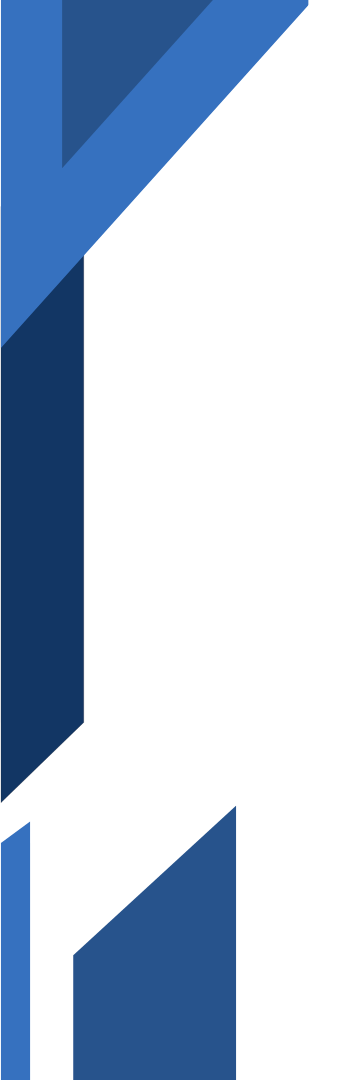
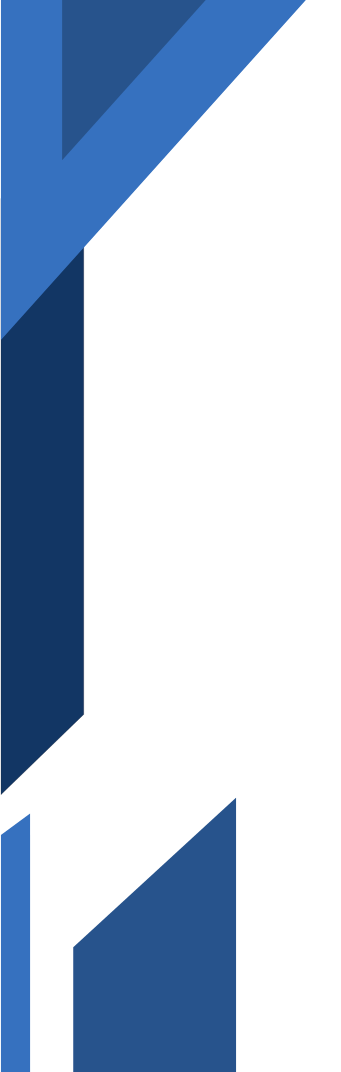
third container

diff --git a/src/components/ThirdContainer/ThirdContainer.css b/src/components/ThirdContainer/ThirdContainer.css
@@ -1,14 +1,42 @@
 .third-container {
+  position: relative;
   background-color: #EDEDED;
   padding: 20px;
   display: flex;
   flex-direction: column;
   align-items: center;
   margin-bottom: 20px;
+  overflow: hidden;
 }
 
 .third-container h1 {
   color: #27538C;
   font-family: 'Roboto Condensed', sans-serif;
   font-size: 30px;
+}
+
+.header1Image {
+  position: absolute;
+  left: 0;
+  right: 0;
+  bottom: 0;
+  top: 0;
+  width: 60%;
+  background: url('../../assets/header1.png') no-repeat left top;
+  background-size: contain;
+}
+
+.header5Image {
+  position: absolute;
+  right: 0;
+  bottom: 0;
+  width: 50%;
+  height: 100%;
+  background: url('../../assets/header5.png') no-repeat right bottom;
+  background-size: contain;
+}
+
+.third-container > *:not(.header1Image):not(.header5Image) {
+  position: relative;
+  z-index: 0;
 }

diff --git a/src/components/Header/Header.css b/src/components/Header/Header.css
@@ -22,6 +22,8 @@
   color: #27538C;
   font-family: 'Roboto Condensed', sans-serif;
   font-size: 52px;
+  margin-left: 170px;
+  height: 20px;
 }
 
 .header3Image {
@@ -30,8 +32,19 @@
   right: 0;
   top: 0;
   bottom: 0;
-  height: 100%;
   background: url('../../assets/header3.png') no-repeat right top;
+  background-size: contain;
+  z-index: 1;
+}
+
+.header4Image {
+  position: absolute;
+  left: 0;
+  right: 0;
+  bottom: 0;
+  top: 0;
+  width: 60%;
+  background: url('../../assets/header4.png') no-repeat left top;
   background-size: contain;
   z-index: 1;
 }

diff --git a/src/components/ThirdContainer/ThirdContainer.tsx b/src/components/ThirdContainer/ThirdContainer.tsx
@@ -5,6 +5,8 @@ import TestingMenu from './testingMenu/TestingMenu';
 const ThirdContainer = () => {
   return (
     <div className="third-container">
+      <div className='header1Image'></div>
+      <div className='header5Image'></div>
       <h1>Teste alguns dos meus produtos:</h1>
       <TestingMenu />
     </div>

diff --git a/src/components/Header/Header.tsx b/src/components/Header/Header.tsx
@@ -10,6 +10,7 @@ const Header: React.FC = () => {
         <h1>OLÁ MUNDO!</h1>
       </div>
       <div className='header3Image'></div>
+      <div className='header4Image'></div>
       <ProfileImage />
     </div>
   );

diff --git a/src/components/ThirdContainer/testingMenu/TestingMenu.css b/src/components/ThirdContainer/testingMenu/TestingMenu.css
@@ -3,6 +3,7 @@
     border-radius: 8px;
     box-shadow: 0 4px 6px rgba(0, 0, 0, 0.1);
     width: 50%;
+    margin-top: 20px;
     margin-bottom: 20px;
     font-size: 22px;
   }
